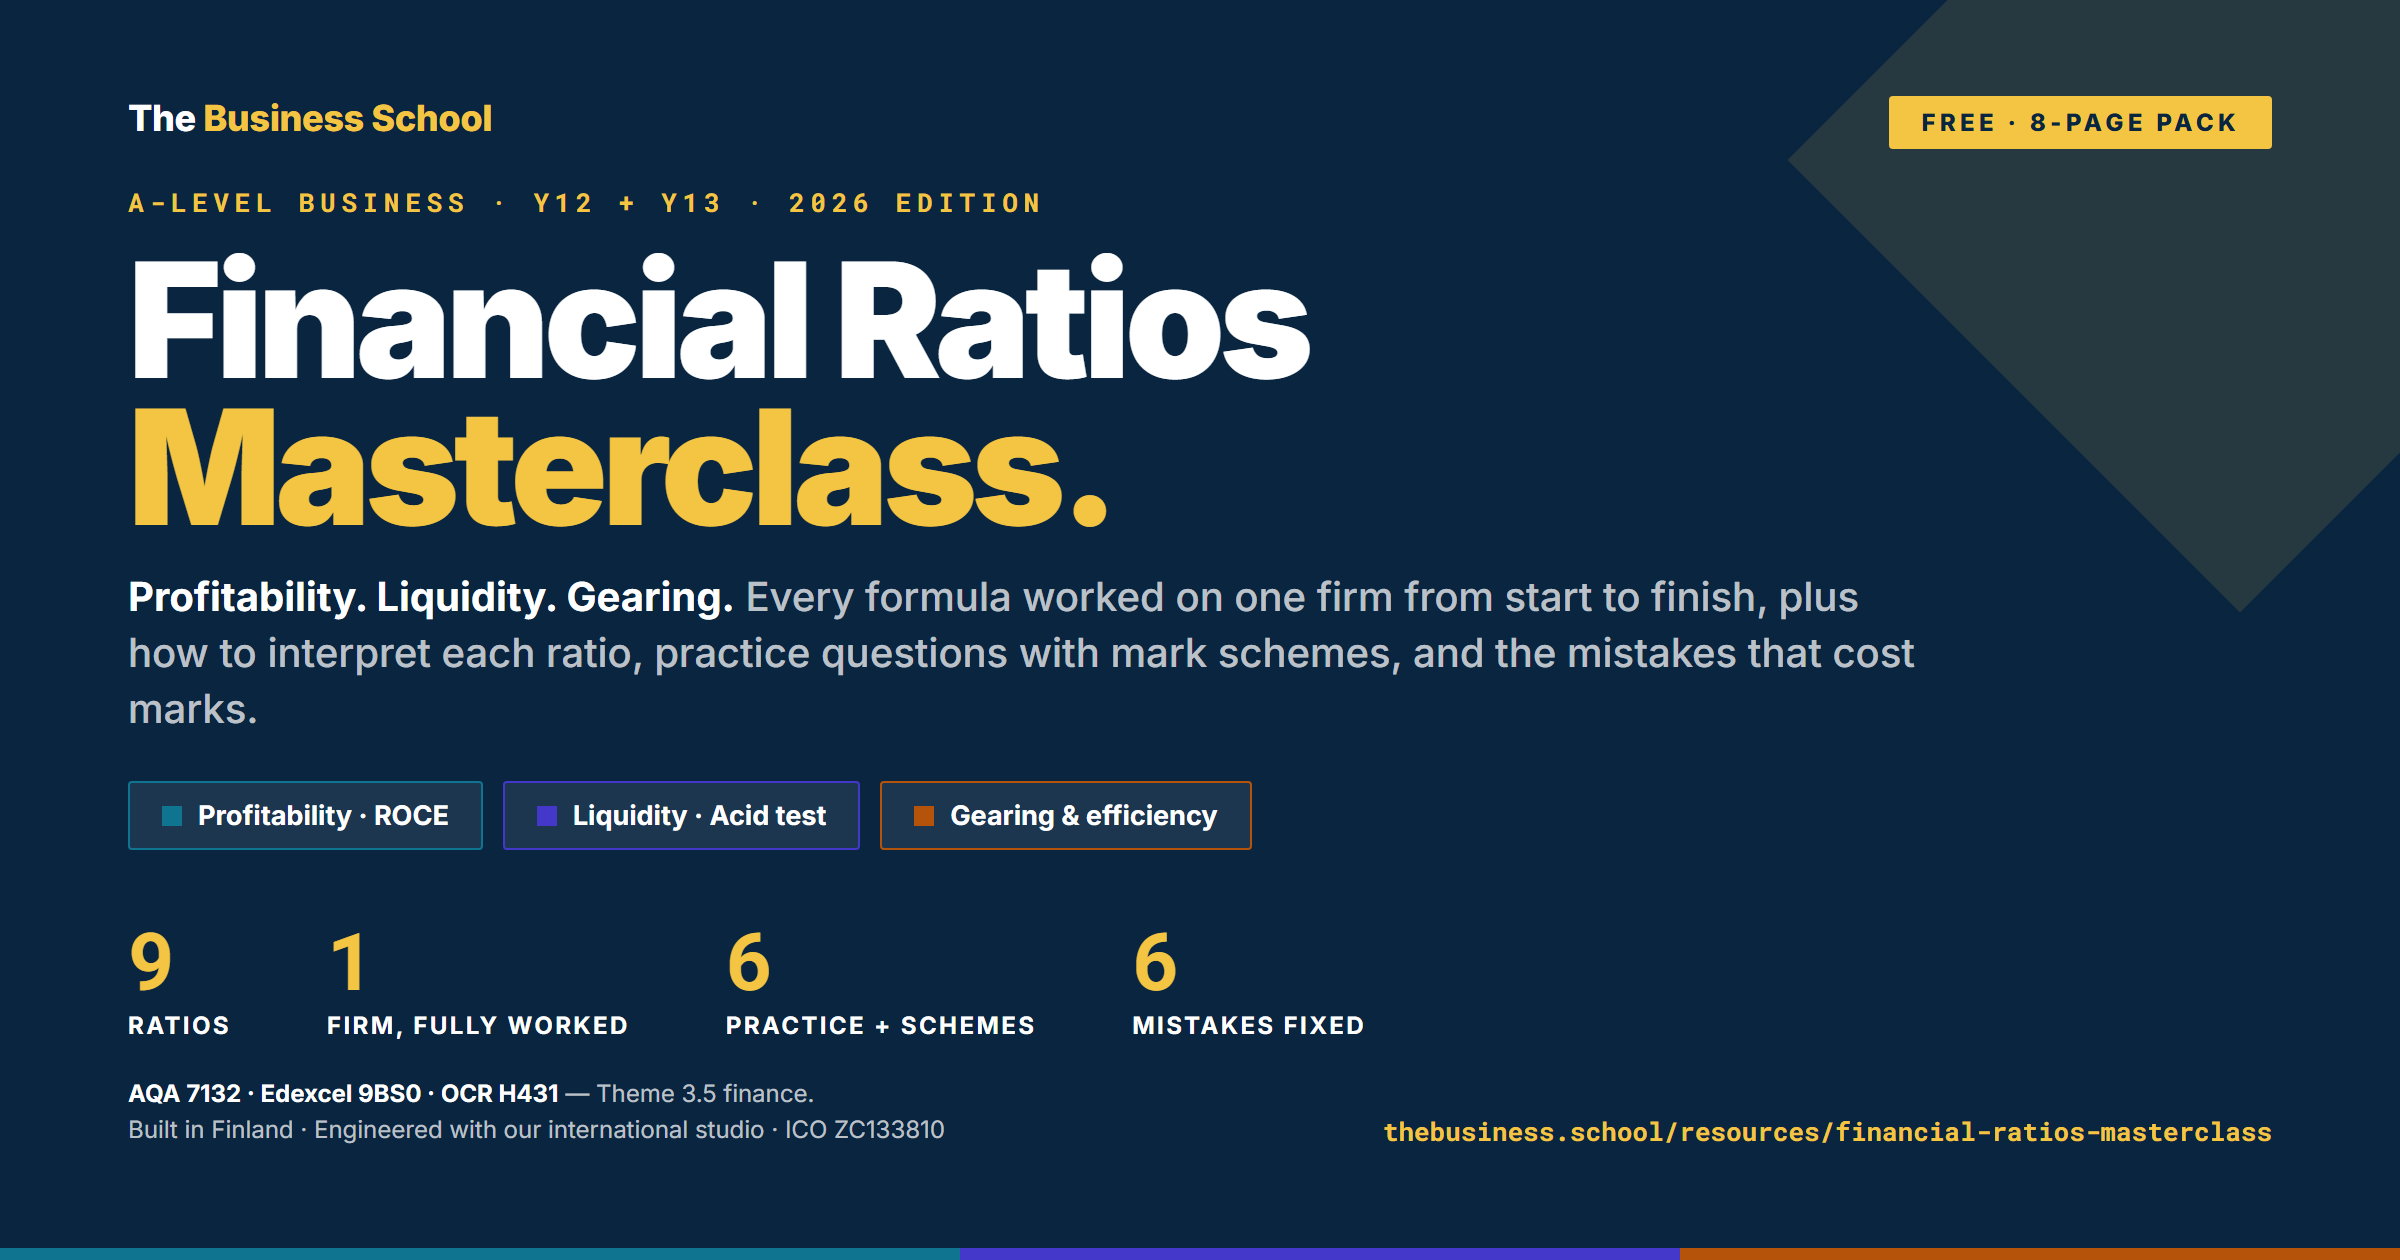
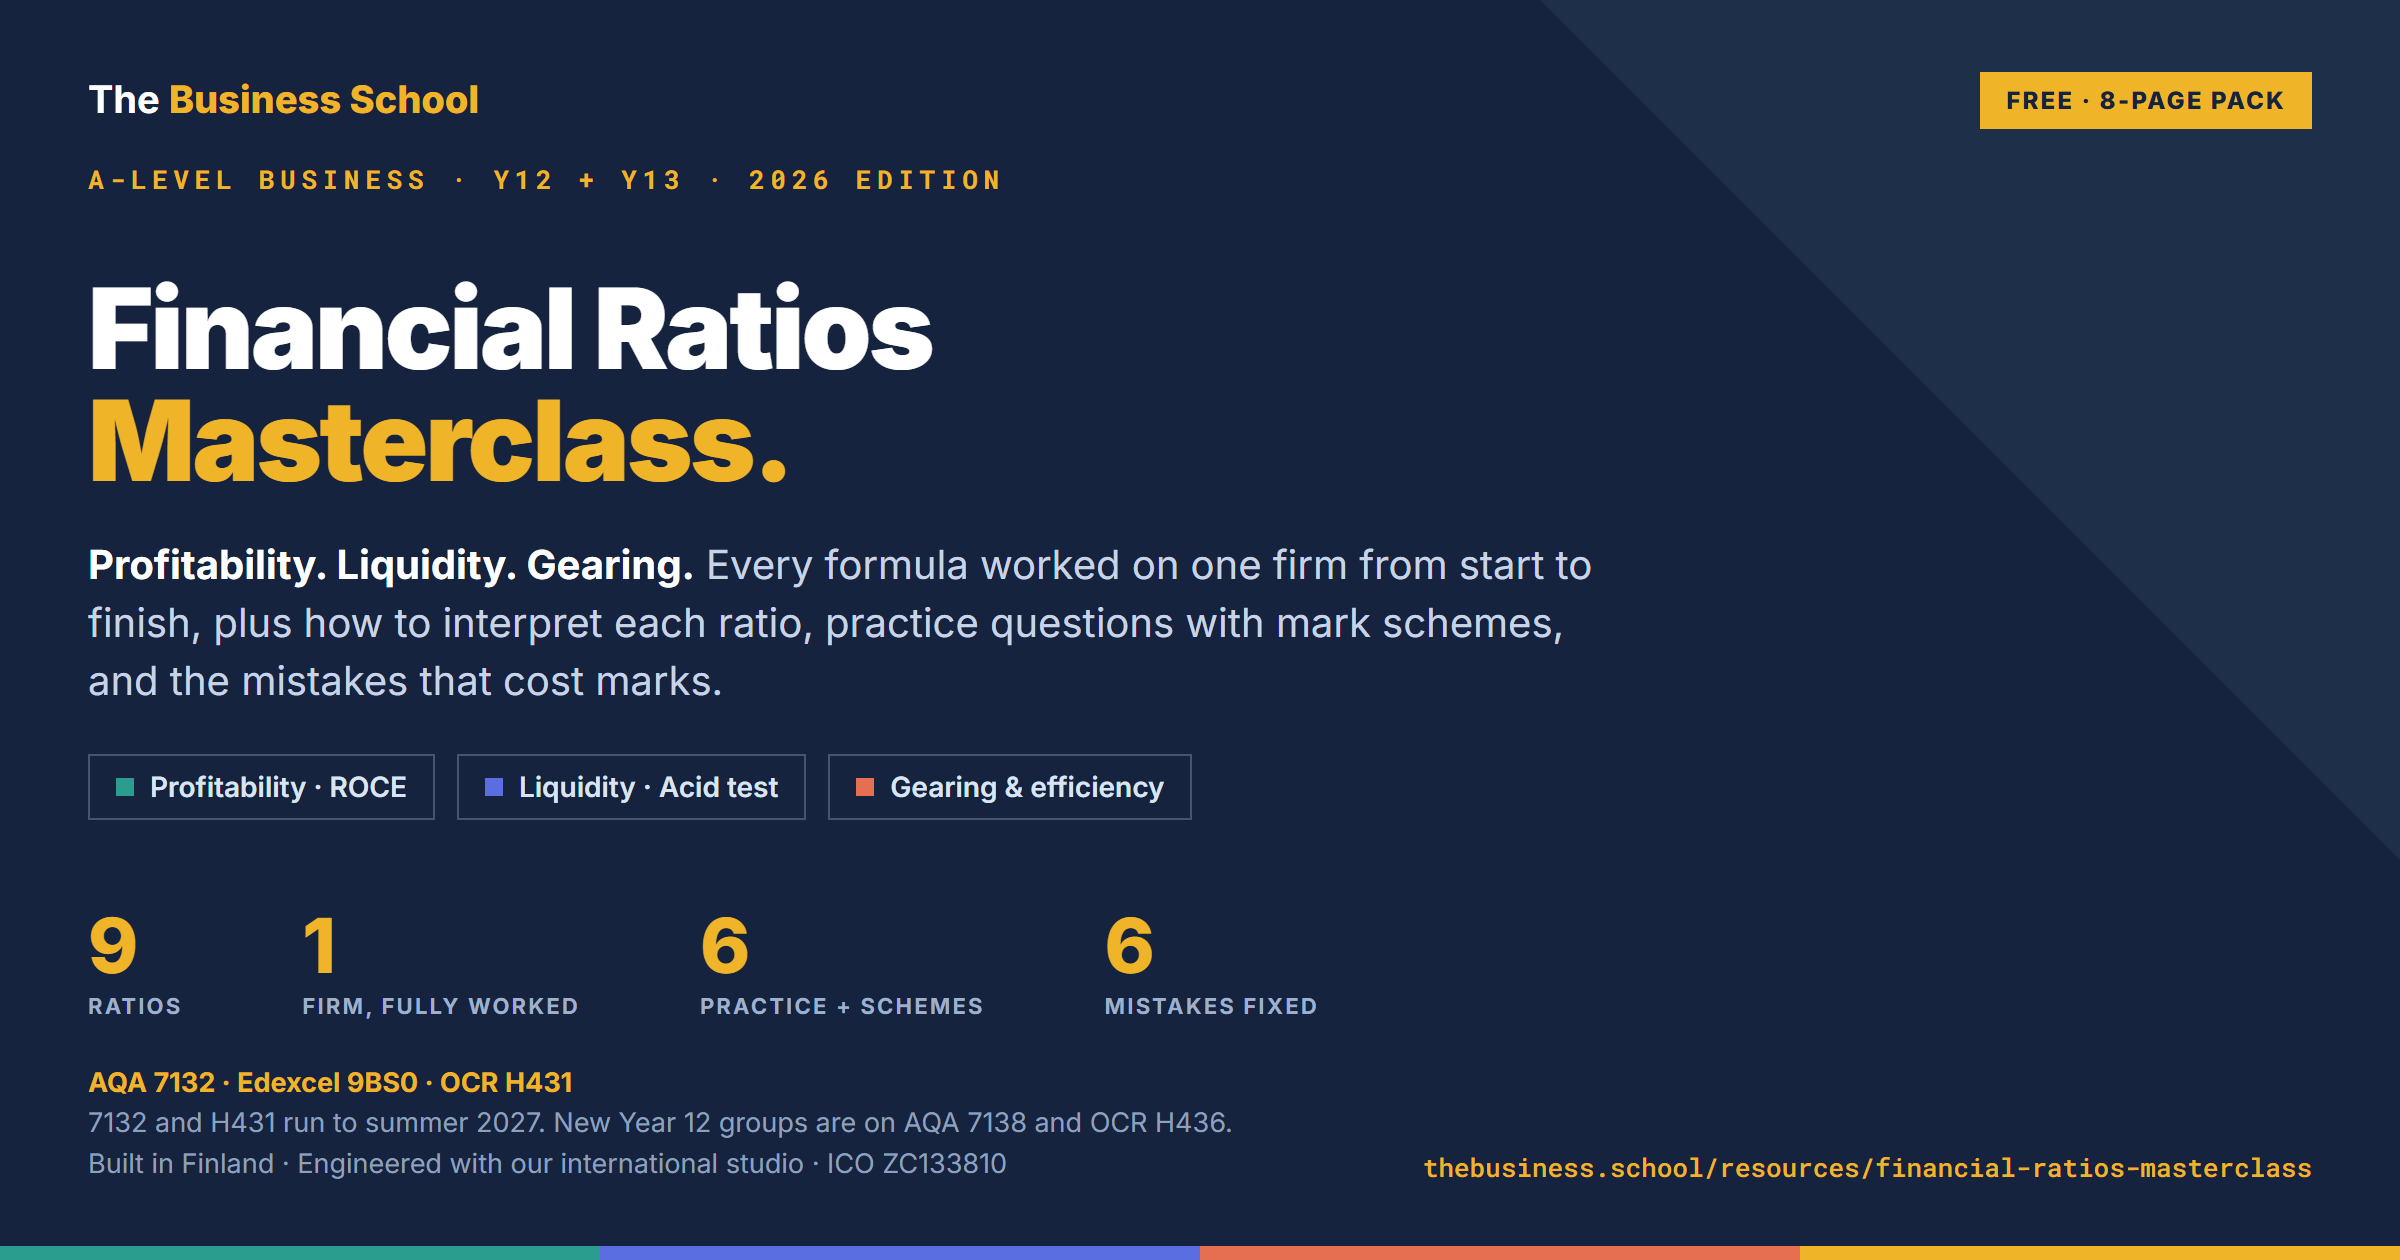
The last eight covers, and the two page counts they were hiding
Four week 1 sample covers, three share cards and the IGCSE premium cover, all
now generated from data rather than drawn once and left to drift.

Two more wrong page counts came out of counting the samples again, both caused
by today's own corrections making the files longer: the A-Level Business week 1
sample is 6 pages, not 5, and the IGCSE 0455 sample is 8, not 7. The IGCSE
premium cover said 116 pages against an actual 120.

The share cards matter most because they are what a teacher sees when a link is
posted, and all three named AQA 7132 and OCR H431 with nothing to say both run
out after summer 2027. They now carry the replacement codes. The BTEC card adds
the caveat that the verb ladder is a rule rather than an absolute, since Assess
appears at Distinction as well as at Merit.

Long dashes are gone from the three cards. They were baked into pixels, so no
grep would ever have found them.

The IGCSE cover has lost "the eleven diagrams" for the same reason the pack
cover lost its twenty: the pack's own sample says thirteen, and I could not
settle it by counting.

Three templates and three data files now cover every generated image:
  covers.json          8 pack and week 1 covers
  fb-cards.json        3 share cards
  regen-premium-cover  the IGCSE premium cover

Each generator refuses to run when the local server is down, so none of them
can write an error page over artwork again.

diff --git a/_spec-check/fb-card-template.html b/_spec-check/fb-card-template.html
@@ -1,0 +1,89 @@
+<meta charset="utf-8">
+<title>FB card template</title>
+<!--
+  Share card template, 1200x630 rendered at 2x to 2400x1260.
+
+  These are the images that travel: they are what a teacher sees when a link is
+  posted. They also had the text baked into pixels, so they kept naming an
+  outgoing specification long after every page had been corrected.
+
+  Regenerate:  python _spec-check/regen-fb-cards.py
+-->
+<link rel="preconnect" href="https://fonts.googleapis.com">
+<link rel="preconnect" href="https://fonts.gstatic.com" crossorigin>
+<link href="https://fonts.googleapis.com/css2?family=Inter:wght@400;600;700;800;900&family=Roboto+Mono:wght@500;700&display=swap" rel="stylesheet">
+<style>
+  * { margin:0; padding:0; box-sizing:border-box; }
+  html, body { width:1200px; height:630px; }
+  body { font-family:'Inter',system-ui,sans-serif; background:#16233f; color:#fff;
+         position:relative; overflow:hidden; }
+  .wedge { position:absolute; top:0; right:0; width:430px; height:430px;
+           background:#1e2f49; clip-path:polygon(100% 0, 100% 100%, 0 0); }
+  .pad { position:relative; padding:38px 44px; height:100%; display:flex; flex-direction:column; }
+  .brand { font-size:19px; font-weight:700; }
+  .brand b { color:#f0b429; font-weight:800; }
+  .pill { position:absolute; top:36px; right:44px; background:#f0b429; color:#16233f;
+          font-size:12px; font-weight:800; letter-spacing:.09em; padding:7px 13px; }
+  .eyebrow { margin-top:20px; font-family:'Roboto Mono',monospace; font-size:13px;
+             font-weight:700; letter-spacing:.22em; color:#f0b429; text-transform:uppercase; }
+  .flow { display:flex; align-items:center; gap:13px; margin-top:20px; }
+  .flow span { font-family:'Roboto Mono',monospace; font-size:19px; font-weight:700;
+               padding:8px 16px; border:1px solid rgba(255,255,255,.3); color:#fff; }
+  .flow span.on { background:#f0b429; color:#16233f; border-color:#f0b429; }
+  .flow i { font-style:normal; color:#8fa0bd; font-size:20px; }
+  h1 { margin-top:18px; font-size:62px; font-weight:900; letter-spacing:-.025em; line-height:1.0; }
+  h1 em { font-style:normal; color:#f0b429; }
+  h1.two { font-size:56px; }
+  .desc { margin-top:20px; font-size:20px; line-height:1.45; color:#c8d3e6; max-width:760px; }
+  .desc b { color:#fff; font-weight:700; }
+  .chips { display:flex; gap:11px; margin-top:22px; }
+  .chip { font-size:14px; font-weight:600; color:#dbe4f2; padding:7px 13px;
+          border:1px solid rgba(255,255,255,.22); display:flex; align-items:center; gap:8px; }
+  .chip s { width:9px; height:9px; display:block; text-decoration:none; }
+  .stats { margin-top:auto; display:flex; gap:60px; }
+  .stat u { display:block; text-decoration:none; font-size:38px; font-weight:800; color:#f0b429; line-height:1; }
+  .stat span { display:block; margin-top:5px; font-size:11px; font-weight:700;
+               letter-spacing:.1em; text-transform:uppercase; color:#9fb0cc; }
+  .foot { margin-top:22px; display:flex; justify-content:space-between; align-items:flex-end; gap:24px; }
+  .foot .l { font-size:13.5px; line-height:1.5; }
+  .foot .l b { color:#f0b429; font-weight:700; }
+  .foot .l div { color:#8fa0bd; }
+  .foot .r { font-family:'Roboto Mono',monospace; font-size:13px; color:#f0b429; white-space:nowrap; }
+  .stripe { position:absolute; left:0; right:0; bottom:0; height:7px; display:flex; }
+  .stripe i { flex:1; }
+</style>
+<div class="wedge"></div>
+<div class="pill" id="pill"></div>
+<div class="pad">
+  <div class="brand">The <b>Business School</b></div>
+  <div class="eyebrow" id="eyebrow"></div>
+  <div class="flow" id="flow"></div>
+  <h1 id="title"></h1>
+  <div class="desc" id="desc"></div>
+  <div class="chips" id="chips"></div>
+  <div class="stats" id="stats"></div>
+  <div class="foot">
+    <div class="l"><b id="spec"></b><div id="note"></div><div id="legal"></div></div>
+    <div class="r" id="url"></div>
+  </div>
+</div>
+<div class="stripe"><i style="background:#2a9d8f"></i><i style="background:#5b6ee1"></i><i style="background:#e76f51"></i><i style="background:#f0b429"></i></div>
+<script>
+  const d = JSON.parse(decodeURIComponent(new URLSearchParams(location.search).get('d') || '{}'));
+  const el = id => document.getElementById(id);
+  el('pill').textContent = d.pill || '';
+  el('eyebrow').textContent = d.eyebrow || '';
+  el('title').innerHTML = d.title || '';
+  if ((d.title || '').replace(/<[^>]+>/g, '').length > 22) el('title').classList.add('two');
+  el('desc').innerHTML = d.desc || '';
+  el('spec').textContent = d.spec || '';
+  el('note').textContent = d.note || '';
+  el('legal').textContent = d.legal || '';
+  el('url').textContent = d.url || '';
+  el('flow').innerHTML = (d.flow || []).map((f, i, a) =>
+    '<span class="' + (i === a.length - 1 ? 'on' : '') + '">' + f + '</span>').join('<i>&rarr;</i>');
+  el('chips').innerHTML = (d.chips || []).map(c =>
+    '<div class="chip"><s style="background:' + c[1] + '"></s>' + c[0] + '</div>').join('');
+  el('stats').innerHTML = (d.stats || []).map(s =>
+    '<div class="stat"><u>' + s[0] + '</u><span>' + s[1] + '</span></div>').join('');
+</script>

diff --git a/_spec-check/premium-cover-template.html b/_spec-check/premium-cover-template.html
@@ -1,0 +1,77 @@
+<meta charset="utf-8">
+<title>Premium cover template</title>
+<!--
+  Premium pack cover, 1200x900.
+
+  Regenerate:  python _spec-check/regen-premium-cover.py
+-->
+<link rel="preconnect" href="https://fonts.googleapis.com">
+<link rel="preconnect" href="https://fonts.gstatic.com" crossorigin>
+<link href="https://fonts.googleapis.com/css2?family=Inter:wght@400;600;700;800;900&display=swap" rel="stylesheet">
+<style>
+  * { margin:0; padding:0; box-sizing:border-box; }
+  html, body { width:1200px; height:900px; }
+  body { font-family:'Inter',system-ui,sans-serif; background:#fff; color:#111;
+         position:relative; overflow:hidden; padding:58px 62px; }
+  .box { display:inline-block; background:#111; color:#fff; font-weight:800;
+         padding:11px 20px; box-shadow:9px 9px 0 rgba(17,17,17,.16); }
+  .eyebrow { font-size:24px; letter-spacing:.02em; }
+  h1 { margin:30px 0 26px; font-size:52px; font-weight:800; letter-spacing:-.01em; }
+  .badge { font-size:34px; padding:13px 24px; }
+  .row { margin-top:26px; }
+  .row .box { font-size:23px; }
+  .inside { margin-top:34px; width:640px; border:3px solid #111;
+            box-shadow:9px 9px 0 rgba(17,17,17,.16); }
+  .inside h2 { background:#111; color:#fff; font-size:24px; font-weight:800; padding:11px 20px; }
+  .inside ul { list-style:none; padding:18px 20px 20px; }
+  .inside li { font-size:18.5px; font-weight:600; padding-left:22px; position:relative;
+               margin-bottom:11px; line-height:1.35; }
+  .inside li::before { content:''; position:absolute; left:0; top:7px;
+                       width:9px; height:9px; background:#111; }
+  .foot { position:absolute; left:62px; bottom:52px; }
+  .foot .box { font-size:24px; }
+  .dots { position:absolute; width:190px; height:150px; opacity:.9; }
+  .dots.a { top:58px; right:62px; } .dots.b { bottom:126px; left:748px; width:120px; height:110px; }
+  .star { position:absolute; right:96px; }
+  .star.one { top:150px; } .star.two { top:390px; right:120px; }
+  .star text { fill:#fff; font-family:'Inter',sans-serif; font-weight:800; text-anchor:middle; }
+</style>
+<div class="eyebrow box" id="eyebrow"></div>
+<h1 id="title"></h1>
+<div><span class="box badge" id="badge"></span></div>
+<div class="row"><span class="box" id="meta1"></span></div>
+<div class="row"><span class="box" id="meta2"></span></div>
+<div class="inside"><h2 id="insideTitle" style="text-transform:uppercase">What is inside</h2><ul id="bullets"></ul></div>
+<div class="foot"><span class="box" id="footline"></span></div>
+
+<svg class="dots a" viewBox="0 0 190 150"><g fill="#111" id="d1"></g></svg>
+<svg class="dots b" viewBox="0 0 120 110"><g fill="#111" id="d2"></g></svg>
+<svg class="star one" width="230" height="230" viewBox="0 0 100 100">
+  <polygon id="s1" fill="#111"/><text x="50" y="45" font-size="10" id="t1a"></text>
+  <text x="50" y="57" font-size="10" id="t1b"></text><text x="50" y="69" font-size="10" id="t1c"></text></svg>
+<svg class="star two" width="195" height="195" viewBox="0 0 100 100">
+  <polygon id="s2" fill="#111"/><text x="50" y="47" font-size="11" id="t2a"></text>
+  <text x="50" y="61" font-size="11" id="t2b"></text></svg>
+<script>
+  const d = JSON.parse(decodeURIComponent(new URLSearchParams(location.search).get('d') || '{}'));
+  const el = i => document.getElementById(i), set = (i, v) => { if (v) el(i).textContent = v; };
+  set('eyebrow', d.eyebrow); set('title', d.title); set('badge', d.badge);
+  set('meta1', d.meta1); set('meta2', d.meta2); set('footline', d.footline);
+  el('bullets').innerHTML = (d.bullets || []).map(b => '<li>' + b + '</li>').join('');
+  const star = (n, R, r) => Array.from({length: n * 2}, (_, i) => {
+    const a = Math.PI * i / n - Math.PI / 2, rad = i % 2 ? r : R;
+    return (50 + rad * Math.cos(a)).toFixed(1) + ',' + (50 + rad * Math.sin(a)).toFixed(1);
+  }).join(' ');
+  el('s1').setAttribute('points', star(14, 50, 41));
+  el('s2').setAttribute('points', star(12, 50, 40));
+  const b1 = (d.star1 || []), b2 = (d.star2 || []);
+  ['t1a','t1b','t1c'].forEach((i, k) => set(i, b1[k]));
+  ['t2a','t2b'].forEach((i, k) => set(i, b2[k]));
+  const grid = (g, cols, rows, step) => {
+    let s = '';
+    for (let y = 0; y < rows; y++) for (let x = 0; x < cols; x++)
+      s += '<circle cx="' + (x * step + 4) + '" cy="' + (y * step + 4) + '" r="3.1"/>';
+    el(g).innerHTML = s;
+  };
+  grid('d1', 10, 8, 20); grid('d2', 6, 6, 20);
+</script>

diff --git a/_spec-check/regen-premium-cover.py b/_spec-check/regen-premium-cover.py
@@ -1,0 +1,54 @@
+"""Generoi IGCSE 0455 -premium-kannen. Vaatii palvelimen portissa 8899.
+
+Vanha kansi lupasi 116 sivua (todellinen 120) ja "the eleven diagrams", kun
+paketin oma naytesivu sanoo kolmetoista. Sivumaara on laskettu PDF:sta.
+Kuvaajaluku on poistettu, koska sita ei ole pystytty ratkaisemaan.
+"""
+import json, os, subprocess, urllib.parse, urllib.request
+from PIL import Image
+
+CHROME = r"C:\Program Files\Google\Chrome\Application\chrome.exe"
+HERE = os.path.dirname(os.path.abspath(__file__)); ROOT = os.path.dirname(HERE)
+TMP = os.environ.get("TEMP", ".")
+DEST = os.path.join(ROOT, "resources", "igcse-economics-0455-complete-year", "IGCSE-0455-COVER.png")
+
+D = {
+ "eyebrow": "CAMBRIDGE IGCSE  |  ECONOMICS 0455",
+ "title": "IGCSE ECONOMICS",
+ "badge": "THE COMPLETE YEAR",
+ "meta1": "FULL SYLLABUS  |  30 WEEKS  |  90 PLANNED HOURS",
+ "meta2": "SIX ASSESSED UNITS  |  EVERY ANSWER INCLUDED",
+ "bullets": [
+   "60 taught lessons with tasks, data and full answers",
+   "Six unit assessments, 270 marks, full mark schemes",
+   "Six question banks running 30 practice hours",
+   "30 retrieval quizzes, 150 questions with answers",
+   "Written against the 2026 syllabus, with the 2027 to 2029 figures alongside",
+   "PDF, editable Word and PowerPoint included"],
+ "footline": "120 PAGES  |  PRINT AND TEACH  |  14 DAY MONEY BACK GUARANTEE",
+ "star1": ["THE", "PREMIUM", "PACK"],
+ "star2": ["FULLY", "EDITABLE"],
+}
+
+try:
+    if "Premium cover template" not in urllib.request.urlopen(
+            "http://localhost:8899/_spec-check/premium-cover-template.html", timeout=5).read().decode("utf-8","replace"):
+        raise SystemExit("palvelin ei anna pohjaa")
+except Exception as e:
+    raise SystemExit("palvelin ei vastaa portissa 8899 (%s)" % repr(e)[:60])
+
+raw = os.path.join(TMP, "prem0455.png")
+url = ("http://localhost:8899/_spec-check/premium-cover-template.html?d="
+       + urllib.parse.quote(json.dumps(D, ensure_ascii=False)))
+subprocess.run([CHROME, "--headless=new", "--disable-gpu", "--hide-scrollbars",
+                "--force-device-scale-factor=2", "--window-size=1200,900",
+                "--virtual-time-budget=6000", "--screenshot=" + raw, url],
+               capture_output=True, timeout=90)
+im = Image.open(raw).convert("RGB")
+if im.size != (2400, 1800):
+    raise SystemExit("odottamaton koko %s" % (im.size,))
+r, g, b = im.resize((1,1), Image.LANCZOS).getpixel((0,0))
+if r < 150:                                  # valkopohjainen kansi
+    raise SystemExit("ei nayta kannelta, keskivari %s" % ((r,g,b),))
+im.resize((1200, 900), Image.LANCZOS).save(DEST)
+print("IGCSE-0455-COVER.png ok")

diff --git a/_spec-check/regen-fb-cards.py b/_spec-check/regen-fb-cards.py
@@ -1,0 +1,34 @@
+"""Generoi jakokortit fb-cards.json:sta. Vaatii palvelimen portissa 8899."""
+import json, os, subprocess, urllib.parse, urllib.request
+from PIL import Image
+
+CHROME = r"C:\Program Files\Google\Chrome\Application\chrome.exe"
+HERE = os.path.dirname(os.path.abspath(__file__))
+ROOT = os.path.dirname(HERE)
+DATA = json.load(open(os.path.join(HERE, "fb-cards.json"), encoding="utf-8"))["cards"]
+TMP = os.environ.get("TEMP", ".")
+
+try:
+    if "FB card template" not in urllib.request.urlopen(
+            "http://localhost:8899/_spec-check/fb-card-template.html", timeout=5).read().decode("utf-8", "replace"):
+        raise SystemExit("palvelin vastaa mutta ei anna pohjaa")
+except Exception as e:
+    raise SystemExit("palvelin ei vastaa portissa 8899 (%s)" % repr(e)[:60])
+
+for slug, d in DATA.items():
+    url = ("http://localhost:8899/_spec-check/fb-card-template.html?d="
+           + urllib.parse.quote(json.dumps(d, ensure_ascii=False)))
+    raw = os.path.join(TMP, "fb_%s.png" % slug)
+    subprocess.run([CHROME, "--headless=new", "--disable-gpu", "--hide-scrollbars",
+                    "--force-device-scale-factor=2", "--window-size=1200,630",
+                    "--virtual-time-budget=6000", "--screenshot=" + raw, url],
+                   capture_output=True, timeout=90)
+    im = Image.open(raw).convert("RGB")
+    if im.size != (2400, 1260):
+        print("  %-40s ODOTTAMATON KOKO %s" % (slug, im.size)); continue
+    r, g, b = im.resize((1, 1), Image.LANCZOS).getpixel((0, 0))
+    if not (b > r and b > g and r < 110):          # tumma navy, ei valkoinen virhesivu
+        print("  %-40s EI NAYTA KORTILTA %s" % (slug, (r, g, b))); continue
+    im.save(os.path.join(ROOT, "resources", slug, "fb-card.png"))
+    print("  %-40s ok" % slug)
+print("valmis")
